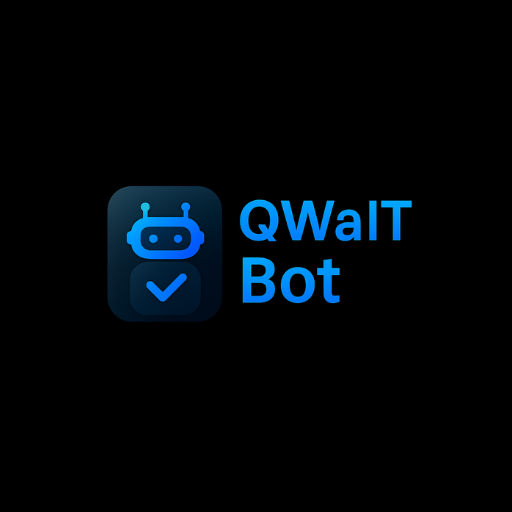
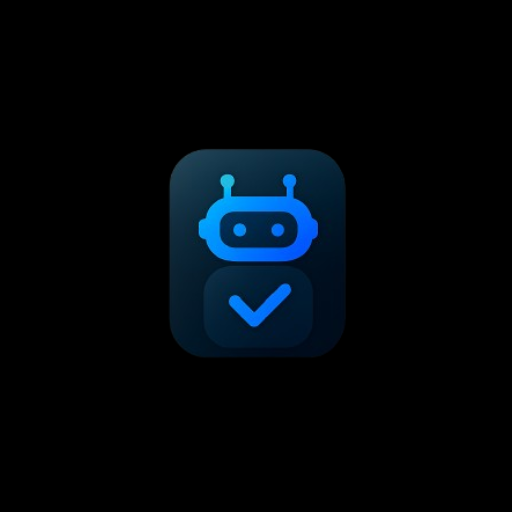
ydk
whatever

Pull request: whatever

Changed region(s): [[0.1875, 0.2812, 0.8125, 0.7188]]

diff --git a/frontend/src/App.css b/frontend/src/App.css
@@ -182,7 +182,7 @@ body {
 .typing-indicator {
     display: flex;
     gap: 6px;
-    padding: 6px 18px 6px 18px;
+    padding: 14px 18px 6px 18px;
     background: rgba(14, 165, 233, 0.08);
     border-radius: 16px;
     border: 1px solid #38bdf8;
@@ -689,6 +689,23 @@ body {
     padding: 1px 2px;
     border:#61add0bc solid 1.5px;
 }
+    .side-icon{
+    display: flex;
+    align-items: center;
+    justify-content: center;
+    gap: 10px;
+    margin-top: -15px;
+    margin-left: -5px;
+}
+
+.botside-icon{
+    display: flex;
+    align-items: center;
+    justify-content: start;
+    gap: 5px;
+    margin-top: -15px;
+    padding-left: 12px;
+}
 }
 
 @media (max-width: 480px) {
@@ -844,8 +861,10 @@ body {
 .side-icon{
     display: flex;
     align-items: center;
-    justify-content: center;
+    justify-content: start;
     gap: 10px;
+    margin-top: -15px;
+    margin-left: -7px;
 }
 
 .side-icon p{
@@ -859,6 +878,52 @@ body {
     align-items: center;
     justify-content: start;
     gap: 5px;
-    margin-bottom: -14px;
+    margin-top: -15px;
+    margin-left: -22px;
+    margin-bottom: -12px;
 }
 
+.user-icon {
+    height: 25px;
+    background-color: #0c77a8bc;
+    border-radius: 50%;
+    padding: 4px 1.5px;
+    border:#61add0bc solid 1.5px;
+}
+
+@media (min-width: 600px) and (max-width: 1024px) {
+  .chat-header img {
+    max-width: 30px;   
+    height: auto;
+        background-color: #0c77a8bc;
+    border-radius: 50%;
+    padding: 4px;
+    border:#61add0bc solid 1.5px;
+  }
+
+  .user-icon, .botside-icon img{
+    height: 25px;
+    background-color: #0c77a8bc;
+    border-radius: 50%;
+    padding: 4px;
+    border:#61add0bc solid 1.5px;
+  }
+
+  .user-icon, .botside-icon {
+        margin-top: -12px;
+       margin-left: -5px;
+  }
+  .chat-body {
+    padding: 100px 40px 80px 40px; 
+  }
+
+  .chat-message.user,
+  .chat-message.bot {
+    max-width: 70%; 
+  }
+}
+
+.chat-header .side-icon{
+    margin-top: 5px;
+    margin-left: 5px;
+}

diff --git a/frontend/index.html b/frontend/index.html
@@ -2,8 +2,9 @@
 <html lang="en">
   <head>
     <meta charset="UTF-8" />
-    <link rel="icon" type="image/png" href="./src/assets/lo.png" />
-    <meta name="viewport" content="width=device-width, initial-scale=1.0" />
+    <link rel="icon" type="image/png" href="./src/assets/logo.png" />
+    <meta name="viewport" content="width=device-width, initial-scale=1, minimum-scale=1, maximum-scale=1.3"
+/>
     <title>QWalT AI</title>
   </head>
   <body>

diff --git a/frontend/src/App.jsx b/frontend/src/App.jsx
@@ -5,6 +5,7 @@ import { getUserId } from './utils';
 import "@fortawesome/fontawesome-free/css/all.min.css";
 import uploadImg from "./assets/download.png";
 import icon from "./assets/icon.png";
+import userIcon from "./assets/user.png";
 import ReactMarkdown from "react-markdown";
 
 const API_BASE_URL = 'https://backend-trail-06b6.onrender.com';
@@ -311,6 +312,10 @@ Think of me as your digital quality coach — smarter, faster, and better.`,
             renderBotMessage(msg, idx)
           ) : (
             <div key={idx} className="chat-message user">
+              <div className="side-icon">
+                <img src={userIcon} alt="icon" className="icon-type user-icon" />
+                <p>You</p>
+              </div>
               <div>{msg.text}</div>
             </div>
           )